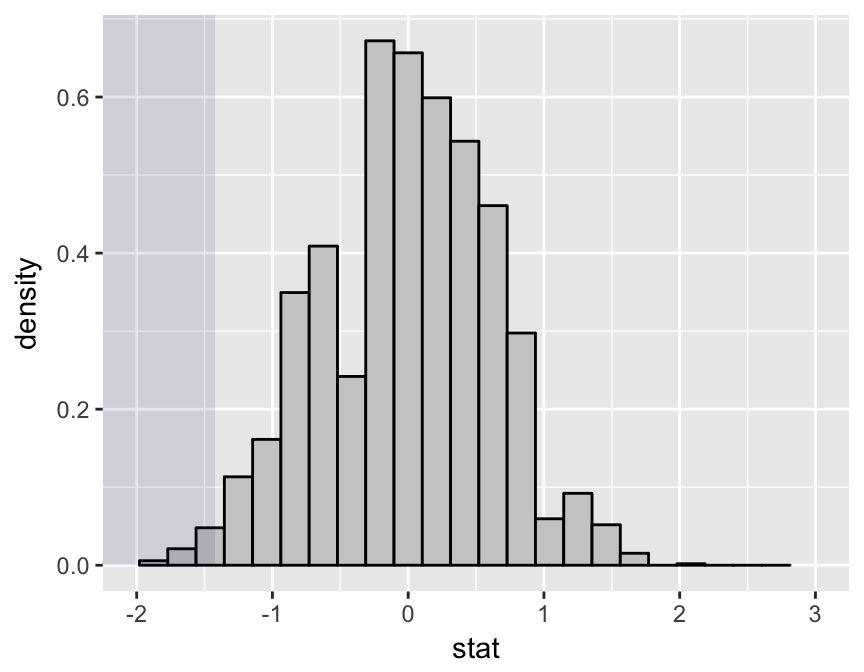
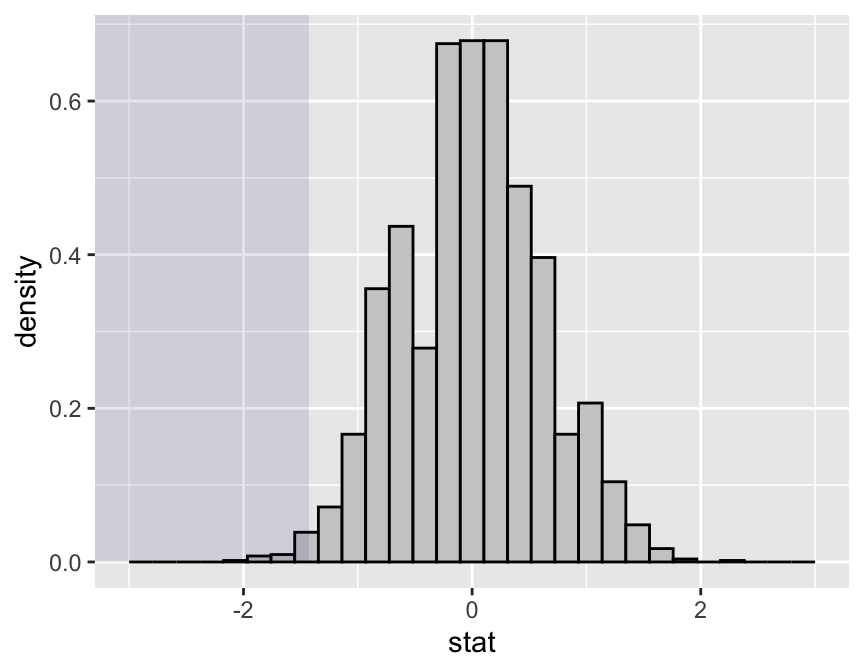
start

Changed region(s): [[0.0, 0.0, 0.9688, 1.0], [0.8438, 0.375, 0.875, 0.4062]]

diff --git a/static/rmarkdown-libs/htmlwidgets/htmlwidgets.js b/static/rmarkdown-libs/htmlwidgets/htmlwidgets.js
@@ -233,13 +233,38 @@
           theseArgs = theseArgs.concat([task.data]);
           task = task.code;
         }
-        var taskFunc = eval("(" + task + ")");
+        var taskFunc = tryEval(task);
         if (typeof(taskFunc) !== "function") {
           throw new Error("Task must be a function! Source:\n" + task);
         }
         taskFunc.apply(target, theseArgs);
       });
     }
+  }
+
+  // Attempt eval() both with and without enclosing in parentheses.
+  // Note that enclosing coerces a function declaration into
+  // an expression that eval() can parse
+  // (otherwise, a SyntaxError is thrown)
+  function tryEval(code) {
+    var result = null;
+    try {
+      result = eval(code);
+    } catch(error) {
+      if (!error instanceof SyntaxError) {
+        throw error;
+      }
+      try {
+        result = eval("(" + code + ")");
+      } catch(e) {
+        if (e instanceof SyntaxError) {
+          throw error;
+        } else {
+          throw e;
+        }
+      }
+    }
+    return result;
   }
 
   function initSizing(el) {
@@ -565,7 +590,10 @@
         }
 
         if (binding.resize) {
-          var lastSize = {};
+          var lastSize = {
+            w: sizeObj ? sizeObj.getWidth() : el.offsetWidth,
+            h: sizeObj ? sizeObj.getHeight() : el.offsetHeight
+          };
           var resizeHandler = function(e) {
             var size = {
               w: sizeObj ? sizeObj.getWidth() : el.offsetWidth,
@@ -631,17 +659,56 @@
     invokePostRenderHandlers();
   }
 
-  // Wait until after the document has loaded to render the widgets.
+
+  function has_jQuery3() {
+    if (!window.jQuery) {
+      return false;
+    }
+    var $version = window.jQuery.fn.jquery;
+    var $major_version = parseInt($version.split(".")[0]);
+    return $major_version >= 3;
+  }
+
+  /*
+  / Shiny 1.4 bumped jQuery from 1.x to 3.x which means jQuery's
+  / on-ready handler (i.e., $(fn)) is now asyncronous (i.e., it now
+  / really means $(setTimeout(fn)).
+  / https://jquery.com/upgrade-guide/3.0/#breaking-change-document-ready-handlers-are-now-asynchronous
+  /
+  / Since Shiny uses $() to schedule initShiny, shiny>=1.4 calls initShiny
+  / one tick later than it did before, which means staticRender() is
+  / called renderValue() earlier than (advanced) widget authors might be expecting.
+  / https://github.com/rstudio/shiny/issues/2630
+  /
+  / For a concrete example, leaflet has some methods (e.g., updateBounds)
+  / which reference Shiny methods registered in initShiny (e.g., setInputValue).
+  / Since leaflet is privy to this life-cycle, it knows to use setTimeout() to
+  / delay execution of those methods (until Shiny methods are ready)
+  / https://github.com/rstudio/leaflet/blob/18ec981/javascript/src/index.js#L266-L268
+  /
+  / Ideally widget authors wouldn't need to use this setTimeout() hack that
+  / leaflet uses to call Shiny methods on a staticRender(). In the long run,
+  / the logic initShiny should be broken up so that method registration happens
+  / right away, but binding happens later.
+  */
+  function maybeStaticRenderLater() {
+    if (shinyMode && has_jQuery3()) {
+      window.jQuery(window.HTMLWidgets.staticRender);
+    } else {
+      window.HTMLWidgets.staticRender();
+    }
+  }
+
   if (document.addEventListener) {
     document.addEventListener("DOMContentLoaded", function() {
       document.removeEventListener("DOMContentLoaded", arguments.callee, false);
-      window.HTMLWidgets.staticRender();
+      maybeStaticRenderLater();
     }, false);
   } else if (document.attachEvent) {
     document.attachEvent("onreadystatechange", function() {
       if (document.readyState === "complete") {
         document.detachEvent("onreadystatechange", arguments.callee);
-        window.HTMLWidgets.staticRender();
+        maybeStaticRenderLater();
       }
     });
   }
@@ -729,7 +796,7 @@
       if (o !== null && typeof o === "object" && part in o) {
         if (i == (l - 1)) { // if we are at the end of the line then evalulate
           if (typeof o[part] === "string")
-            o[part] = eval("(" + o[part] + ")");
+            o[part] = tryEval(o[part]);
         } else { // otherwise continue to next embedded object
           o = o[part];
         }

diff --git a/content/post/2014-04-01-tigerstatsintro.html b/content/post/2014-04-01-tigerstatsintro.html
@@ -79,21 +79,21 @@ nullDist &lt;- do(2500)*(
       data=Pseudoscorpions))</code></pre>
 <p>Finally, we call <code>statTally()</code> for numerical and graphical analysis of the results:</p>
 <pre class="r"><code>statTally(obsDiff,nullDist)</code></pre>
-<pre><code>## Null distribution appears to be asymmetric. (p = 0.000258)</code></pre>
+<pre><code>## Null distribution appears to be asymmetric. (p = 4.93e-05)</code></pre>
 <pre><code>## 
 ## Test statistic applied to sample data =  -1.425</code></pre>
 <pre><code>## 
 ## Quantiles of test statistic applied to random data:</code></pre>
-<pre><code>##    50%    90%    95%    99% 
-## 0.0375 0.8250 0.9375 1.3875</code></pre>
+<pre><code>##      50%      90%      95%      99% 
+## 0.037500 0.825000 0.943125 1.387500</code></pre>
 <pre><code>## </code></pre>
 <pre><code>## 
 ## Of the 2501 samples (1 original + 2500 random),</code></pre>
 <pre><code>## 
 ##  12 ( 0.48 % ) had test stats = -1.425</code></pre>
 <pre><code>## 
-##  40 ( 1.6 % ) had test stats &lt;= -1.425</code></pre>
-<pre><code>## Warning: Removed 1 rows containing missing values (geom_bar).</code></pre>
+##  31 ( 1.24 % ) had test stats &lt;= -1.425</code></pre>
+<pre><code>## `stat_bin()` using `bins = 30`. Pick better value with `binwidth`.</code></pre>
 <p><img src="/post/2014-04-01-tigerstatsintro_files/figure-html/reason1hist-1.png" width="432" /></p>
 <p>We seem to have fairly strong evidence (<span class="math inline">\(P \approx 1.7\%\)</span>) that mating with more males increases the number of successful broods.</p>
 </div>

diff --git a/content/post/2014-09-03-google-charts.html b/content/post/2014-09-03-google-charts.html
@@ -19,8 +19,8 @@ aggregators: ["r-bloggers"]
 <p>Suppose, for example, that you want to illustrate to students the risks associated with extrapolation. You begin by reminding them of the experience they had back in high school with their graphing calculators, when they zoomed in on a curve: zoom in close enough, and it looks like a straight line.</p>
 <p>Then you point out that for the most part we live our lives from a “zoomed-in” perspective, at least where data is concerned. In situations where we are interested in a pair of numerical measurements on individuals, we usually possess <span class="math inline">\(y\)</span>-values for only a fairly narrow range of <span class="math inline">\(x\)</span>-values. Hence it is likely that a scatter plot we make from our “zoomed-in” data will show a roughly linear relationship, even though on a global scale the “real” relationship probably is some kind of a curve.</p>
 <p>The app below (a slight modification of the example in Gesmann’s post) makes the point in a flash. Click and drag to establish a zoom region, right-click to reset:</p>
-<!-- ScatterChart generated in R 3.4.3 by googleVis 0.6.2 package -->
-<!-- Wed Jan 31 22:59:00 2018 -->
+<!-- ScatterChart generated in R 3.6.2 by googleVis 0.6.4 package -->
+<!-- Tue Feb 18 12:56:57 2020 -->
 <!-- jsHeader -->
 <script type="text/javascript">
  

diff --git a/content/post/2014-05-05-reasons-to-teach-with-R-3.html b/content/post/2014-05-05-reasons-to-teach-with-R-3.html
@@ -57,7 +57,7 @@ install_github(repo=&quot;homerhanumat/tigerstats&quot;)</code></pre>
 </table>
 <p>This looks like an awful lot of two-spots, but we were not expecting this in advance. By this point in the course students have been made aware of the perils of “data snooping” and hence should be disinclined to employ an inferential procedure that is based specifically on a pattern that one happens to notice in one’s data. Therefore, rather than perform inferential procedures keyed to “Two-spot” side of the die, we might turn instead to the chi-square statistic as a neutral measure of the difference between the observed results and what one would expect if the die were fair.</p>
 <p>The situation is addressed in this Shiny app:</p>
-<p><a href="https://homer.shinyapps.io/SlowGoodness" class="uri">https://homer.shinyapps.io/SlowGoodness</a></p>
+<p><a href="https://homer.shinyapps.io/SlowGoodness">https://homer.shinyapps.io/SlowGoodness</a></p>
 <p>After re-sampling for a few minutes, students are convinced that it’s not so unlikely, after all to get results like the ones we observed, if the die is fair all along.</p>
 <p>Students are then prepared to understand a full-scale re-sampling simulation like the following one:</p>
 <pre class="r"><code>require(tigerstats)</code></pre>

diff --git a/content/post/2017-09-27-madhava-graph-advice.html b/content/post/2017-09-27-madhava-graph-advice.html
@@ -61,8 +61,8 @@ terms</code></pre>
 <pre><code>##  [1]  1  2  3  4  5  6  7  8  9 10</code></pre>
 <p>You’ll also have the sums, another vector of length 10:</p>
 <pre class="r"><code>results</code></pre>
-<pre><code>##  [1] 4.000000 2.666667 3.466667 2.895238 3.339683 2.976046 3.283738
-##  [8] 3.017072 3.252366 3.041840</code></pre>
+<pre><code>##  [1] 4.000000 2.666667 3.466667 2.895238 3.339683 2.976046 3.283738 3.017072
+##  [9] 3.252366 3.041840</code></pre>
 <p>From our study of the Collatz function, we know that the way to make a line graph of these points is:</p>
 <pre class="r"><code>plotTitle &lt;- paste0(&quot;The first &quot;, n, &quot; Madhava sums&quot;)
   p &lt;- ggplot(mapping = aes(x = terms, y = results)) +

diff --git a/content/d3lab/regression-to-mean.html b/content/d3lab/regression-to-mean.html
@@ -65,7 +65,13 @@ weight: 4
     }
 </style>
 <p>
-<label for="rho">Target Correlation: </label> <input id="rho" type="number" value="0.5" step="0.01" min="0" max="1"> <select id="selector"> <option value="noshow" selected>Do not show y-means</option> <option value="rect" selected>Show mean of moving range</option> <option value="all">Show all means</option> </select>
+<label for="rho">Target Correlation: </label>
+<input id="rho" type="number" value="0.5" step="0.01" min="0" max="1">
+<select id="selector">
+<option value="noshow" selected>Do not show y-means</option>
+<option value="rect" selected>Show mean of moving range</option>
+<option value="all">Show all means</option>
+</select>
 </p>
 <p id="reference">
 </p>

diff --git a/static/rmarkdown-libs/bpexploder-binding/bpexploder.js b/static/rmarkdown-libs/bpexploder-binding/bpexploder.js
@@ -32,7 +32,12 @@ HTMLWidgets.widget({
         var targetWidth;
         if ( referenceId ) {
           var measure = document.querySelector("#" + referenceId);
-          targetWidth = relativeWidth * measure.offsetWidth;
+          var initialWidth = measure.getAttribute("data-width");
+          if ( initialWidth ) {
+            targetWidth = relativeWidth * initialWidth;
+          } else {
+            targetWidth = relativeWidth * measure.offsetWidth;
+          }
         } else {
           var grandparent = container.node().parentNode;
           targetWidth = relativeWidth * grandparent.offsetWidth;
